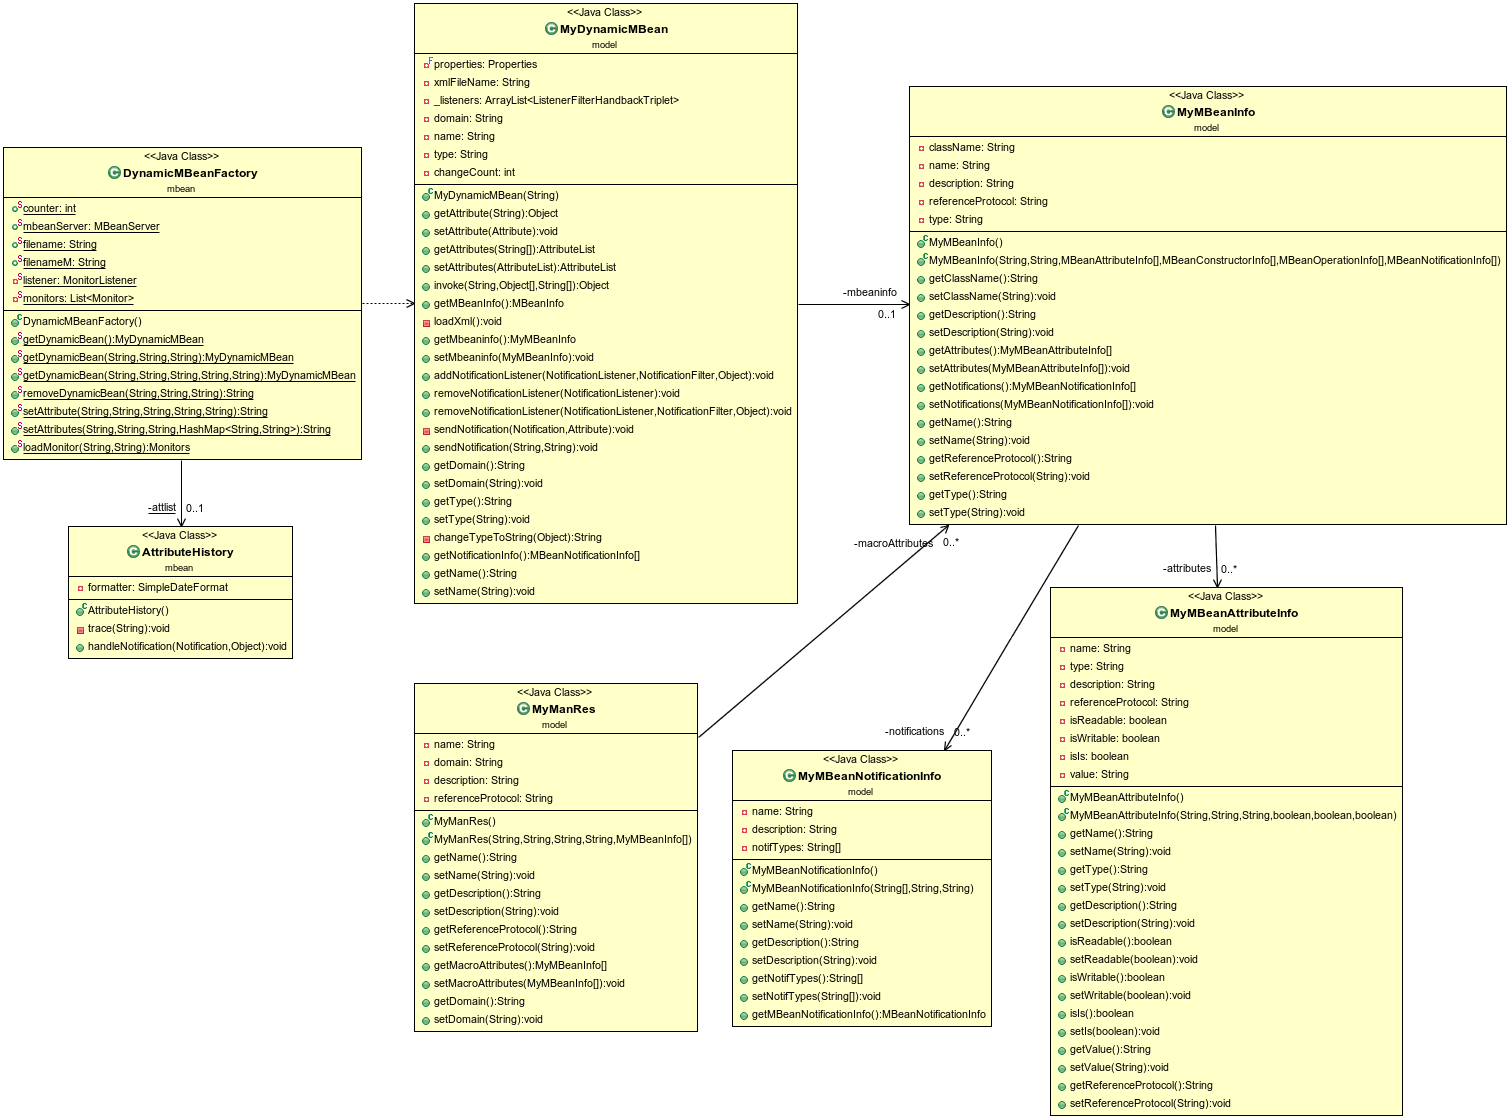
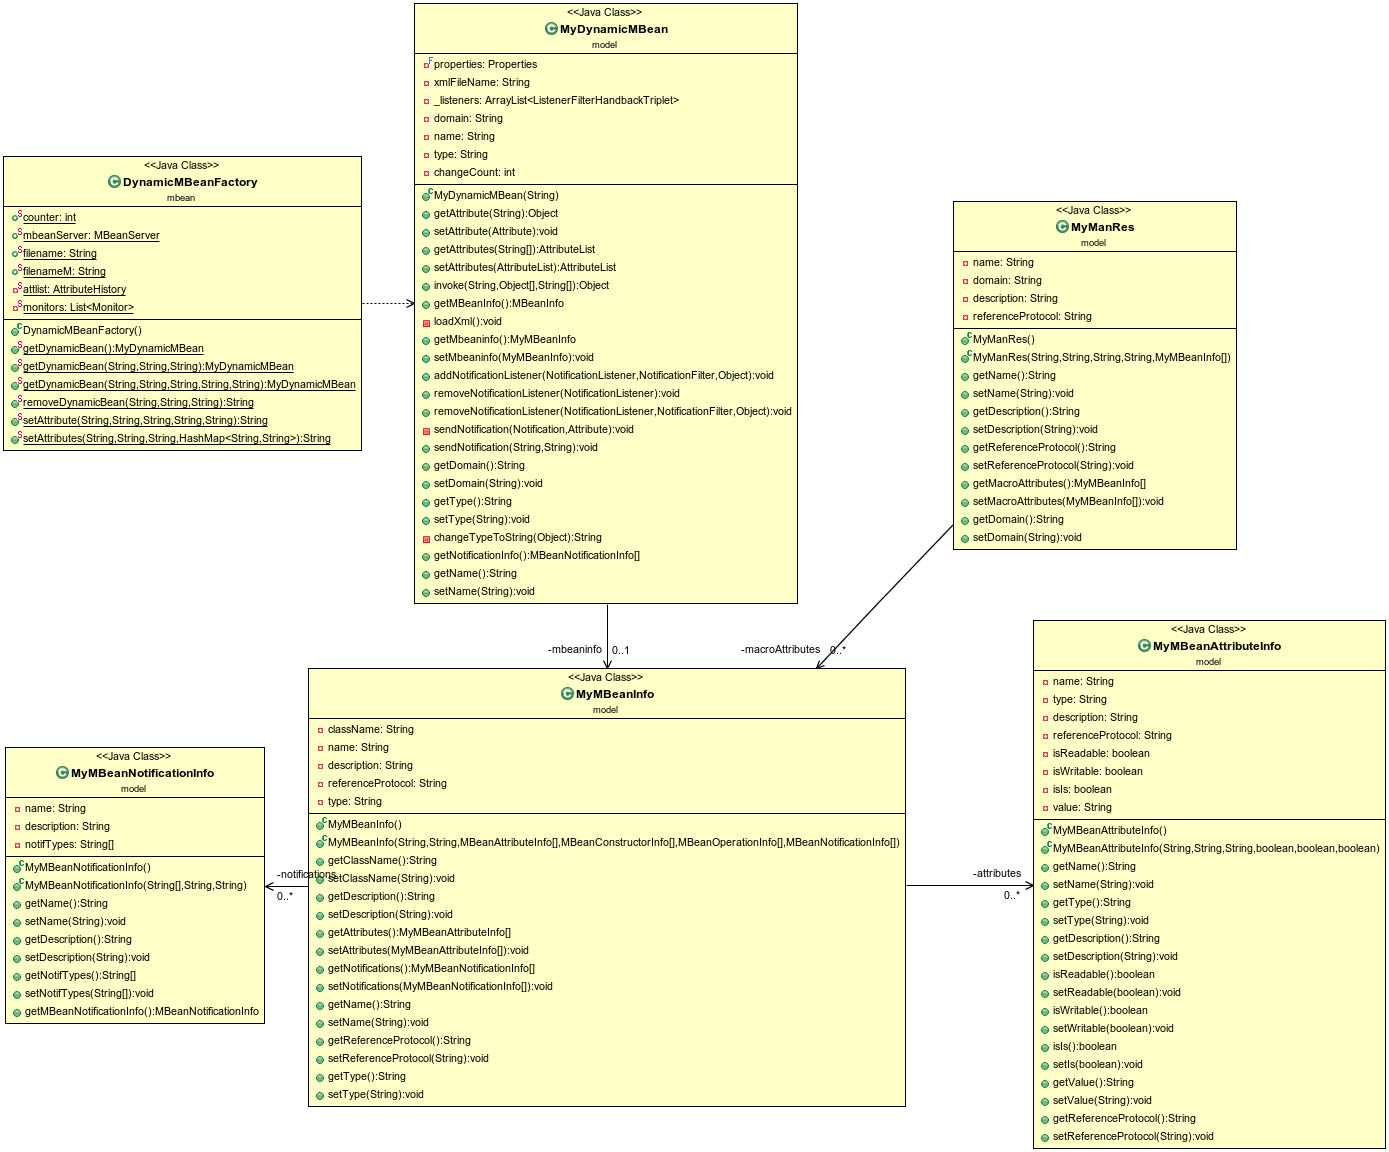
Eliminada clase AttributeHistory no necesaria Actualizado diagrama UML

diff --git a/InstrumentingLibrary/src/mbean/DynamicMBeanFactory.java b/InstrumentingLibrary/src/mbean/DynamicMBeanFactory.java
@@ -32,7 +32,6 @@ public class DynamicMBeanFactory {
 	public static MBeanServer mbeanServer;
 	public static String filename = "example.xml";
 	public static String filenameM = "exampleMonitors.xml";
-    private static AttributeHistory attlist = new AttributeHistory();
     private static List<Monitor> monitors = new ArrayList<Monitor>();
 
 	public static MyDynamicMBean getDynamicBean() {
@@ -59,7 +58,6 @@ public class DynamicMBeanFactory {
 			dynamicMBean.setDomain(domain);
 			dynamicMBean.setType(type);
 			mbeanServer.registerMBean(dynamicMBean, new ObjectName(domain + ":type=" + type));
-			mbeanServer.addNotificationListener(new ObjectName(domain + ":type=" + type), attlist, null, null);
 		} catch (Exception e) {
 			e.printStackTrace();
 		}
@@ -88,7 +86,6 @@ public class DynamicMBeanFactory {
 			dynamicMBean.setName(name);
 			dynamicMBean.setType(type);
 			mbeanServer.registerMBean(dynamicMBean, new ObjectName(domain + ":type=" + type + ",name=" + name));
-			mbeanServer.addNotificationListener(new ObjectName(domain + ":type=" + type + ",name=" + name), attlist, null, null);
 		} catch (Exception e) {
 			System.out.println("fallo getDynamicBean");
 			//e.printStackTrace();
